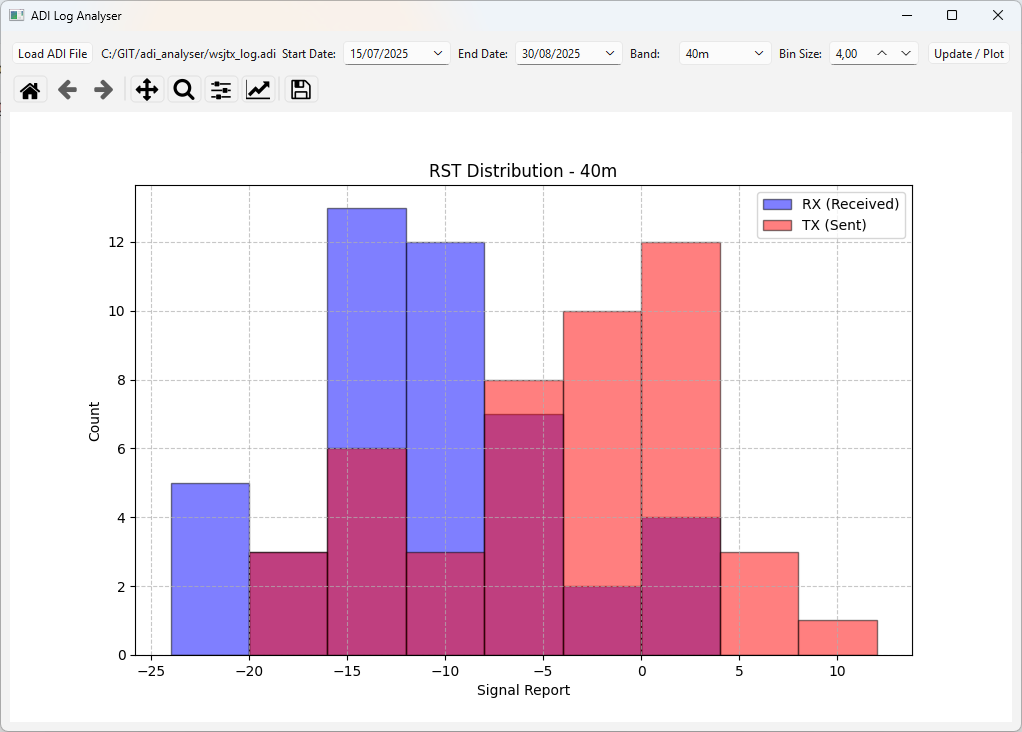
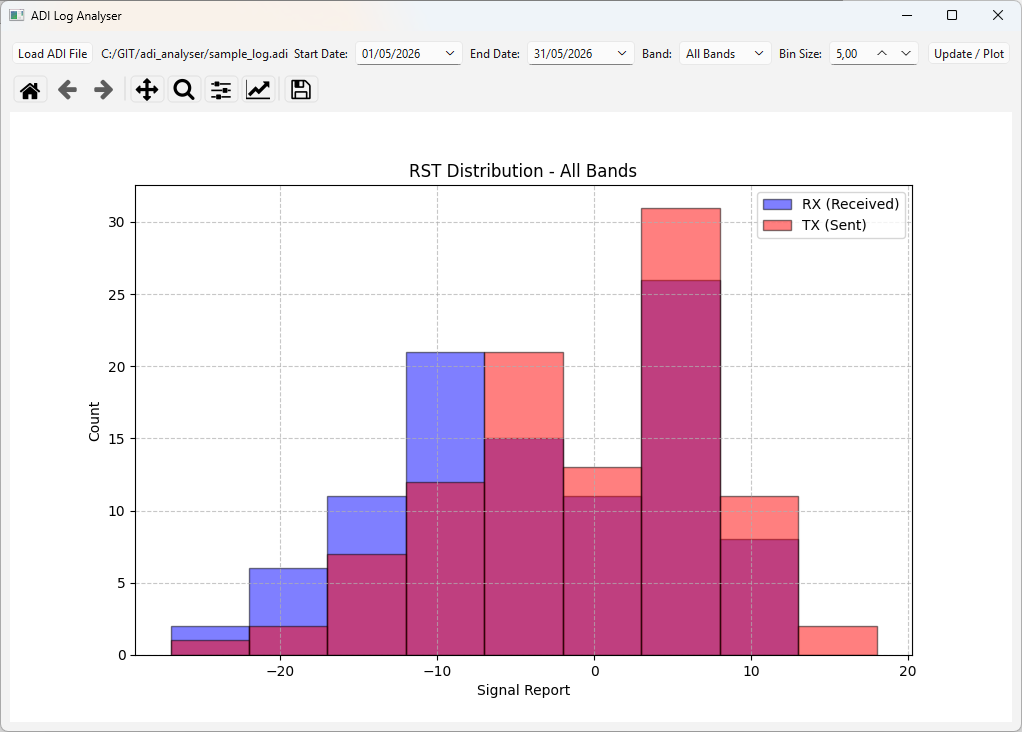
fix errors in documentation

diff --git a/README.md b/README.md
@@ -53,10 +53,11 @@ The histogram displays both RX (blue) and TX (red) signal reports, allowing you 
 
 ## Project Structure
 
-- `main.py` - Main application entry point with GUI implementation
-- `wsjtx_log.adi` - Sample ADI log file
-- `main.spec` - PyInstaller build specification
-- `adi_analyser_specification.txt` - Detailed functional requirements document
+- `main.py` - Main application entry point with GUI implementation and ADIF parser
+- `README.md` - Project documentation
+- `LICENSE` - Project license
+- `sample_log.adi` - Sample ADIF log file with 100 dummy QSO entries for testing
+- `sample_plot.png` - Example output histogram screenshot
 
 ## Notes
 